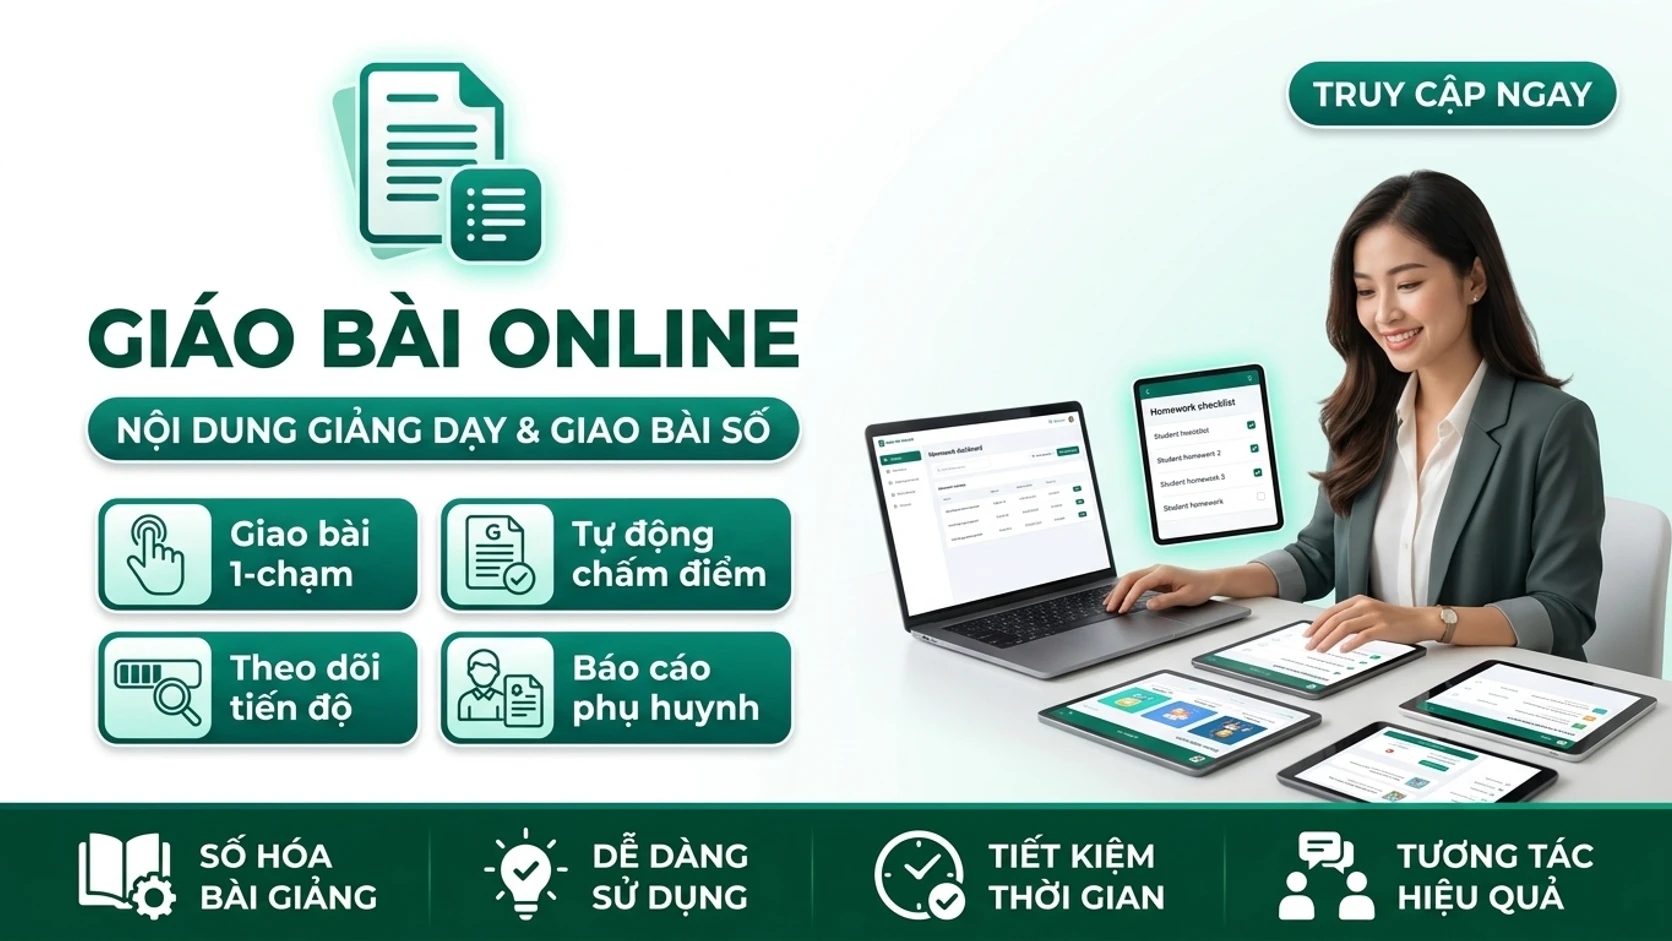
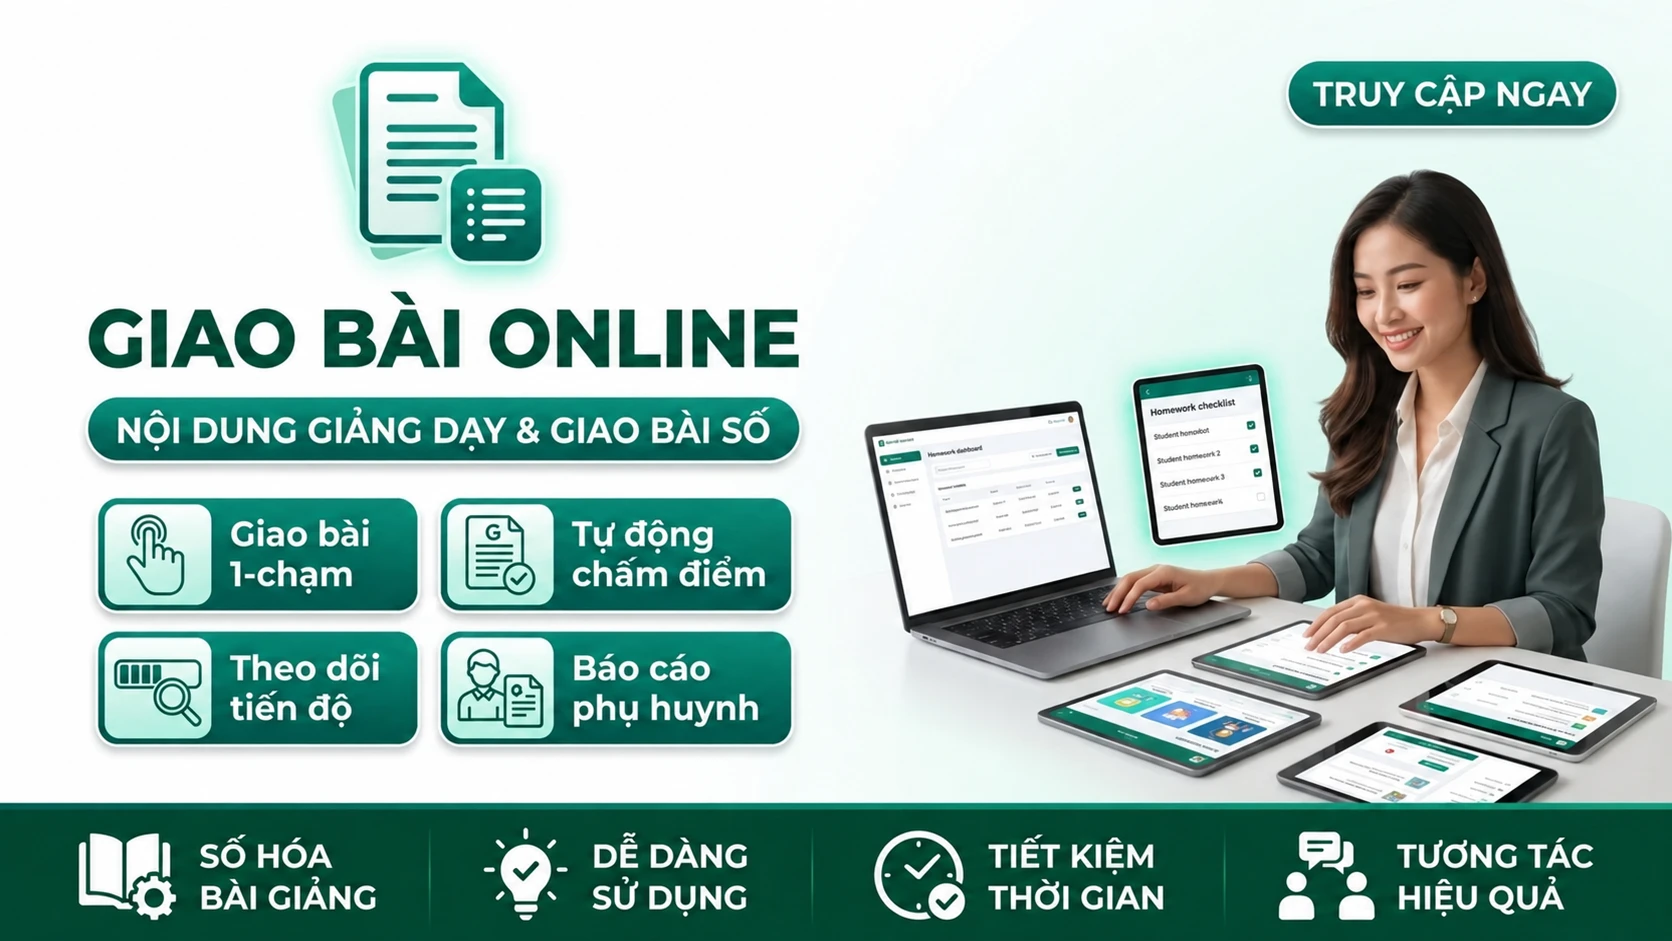
fix: correct GIAO BÀI ONLINE title and cover spelling

diff --git a/code.html b/code.html
@@ -352,11 +352,11 @@
         </div>
       </div>
     </article>
-    <!-- Card 2: GIÁO BÀI ONLINE -->
-    <article class="app-card group flex flex-col bg-surface rounded-xl overflow-hidden shadow-level-1 card-hover-effect border border-surface-variant" data-category="KẾ HOẠCH &amp; GIẢNG DẠY" data-desc="Ứng dụng hỗ trợ công việc chuẩn bị và tổ chức nội dung giảng dạy trong hệ sinh thái giáo dục số." data-group="KẾ HOẠCH" data-title="GIÁO BÀI ONLINE">
+    <!-- Card 2: GIAO BÀI ONLINE -->
+    <article class="app-card group flex flex-col bg-surface rounded-xl overflow-hidden shadow-level-1 card-hover-effect border border-surface-variant" data-category="KẾ HOẠCH &amp; GIẢNG DẠY" data-desc="Ứng dụng hỗ trợ công việc chuẩn bị và tổ chức nội dung giảng dạy trong hệ sinh thái giáo dục số." data-group="KẾ HOẠCH" data-title="GIAO BÀI ONLINE">
       <a class="app-cover relative aspect-video w-full overflow-hidden bg-surface-variant block" href="https://giaobaionline.vercel.app/" rel="noopener noreferrer" target="_blank">
-        <div class="app-cover-fallback app-cover-title" aria-hidden="true"><small>EDUTECH AI · 02</small><strong>GIÁO BÀI ONLINE</strong><small>CÔNG CỤ GIÁO DỤC THÔNG MINH</small></div>
-        <img alt="GIÁO BÀI ONLINE" class="w-full h-full object-cover group-hover:scale-105 transition-transform duration-500" src="assets/covers/giaobai-cinematic.webp?v=2" width="1672" height="941" loading="lazy" decoding="async" onerror="this.hidden = true">
+        <div class="app-cover-fallback app-cover-title" aria-hidden="true"><small>EDUTECH AI · 02</small><strong>GIAO BÀI ONLINE</strong><small>CÔNG CỤ GIÁO DỤC THÔNG MINH</small></div>
+        <img alt="GIAO BÀI ONLINE" class="w-full h-full object-cover group-hover:scale-105 transition-transform duration-500" src="assets/covers/giaobai-cinematic.webp?v=3" width="1672" height="941" loading="lazy" decoding="async" onerror="this.hidden = true">
         <span class="absolute top-3 left-3 bg-surface-container-lowest/90 backdrop-blur-md text-primary font-bold text-[10px] tracking-wider uppercase px-2.5 py-1 rounded-md shadow-sm border border-white/40">ỨNG DỤNG</span>
         <div class="absolute inset-0 bg-primary/50 opacity-0 group-hover:opacity-100 transition-opacity duration-300 flex items-center justify-center backdrop-blur-[2px]">
           <span class="text-on-primary font-label-md text-xs bg-secondary px-3.5 py-2 rounded-lg flex items-center gap-1.5 shadow-lg font-semibold">
@@ -366,7 +366,7 @@
       </a>
       <div class="p-stack-md flex flex-col flex-grow">
         <div class="text-[11px] font-bold tracking-wider text-secondary uppercase mb-1">KẾ HOẠCH &amp; GIẢNG DẠY</div>
-        <h4 class="font-headline-md-mobile text-lg font-bold text-slate-900 mb-2 line-clamp-1">GIÁO BÀI ONLINE</h4>
+        <h4 class="font-headline-md-mobile text-lg font-bold text-slate-900 mb-2 line-clamp-1">GIAO BÀI ONLINE</h4>
         <p class="font-body-md text-slate-600 text-sm line-clamp-2 min-h-[2.5rem] mb-4">Ứng dụng hỗ trợ công việc chuẩn bị và tổ chức nội dung giảng dạy trong hệ sinh thái giáo dục số.</p>
         <div class="mt-auto pt-2 border-t border-surface-variant/60 flex items-center justify-between">
           <a class="inline-flex items-center gap-1.5 text-xs font-semibold text-secondary hover:text-on-tertiary-fixed-variant transition-colors" href="https://giaobaionline.vercel.app/" rel="noopener noreferrer" target="_blank">

diff --git a/index.html b/index.html
@@ -352,11 +352,11 @@
         </div>
       </div>
     </article>
-    <!-- Card 2: GIÁO BÀI ONLINE -->
-    <article class="app-card group flex flex-col bg-surface rounded-xl overflow-hidden shadow-level-1 card-hover-effect border border-surface-variant" data-category="KẾ HOẠCH &amp; GIẢNG DẠY" data-desc="Ứng dụng hỗ trợ công việc chuẩn bị và tổ chức nội dung giảng dạy trong hệ sinh thái giáo dục số." data-group="KẾ HOẠCH" data-title="GIÁO BÀI ONLINE">
+    <!-- Card 2: GIAO BÀI ONLINE -->
+    <article class="app-card group flex flex-col bg-surface rounded-xl overflow-hidden shadow-level-1 card-hover-effect border border-surface-variant" data-category="KẾ HOẠCH &amp; GIẢNG DẠY" data-desc="Ứng dụng hỗ trợ công việc chuẩn bị và tổ chức nội dung giảng dạy trong hệ sinh thái giáo dục số." data-group="KẾ HOẠCH" data-title="GIAO BÀI ONLINE">
       <a class="app-cover relative aspect-video w-full overflow-hidden bg-surface-variant block" href="https://giaobaionline.vercel.app/" rel="noopener noreferrer" target="_blank">
-        <div class="app-cover-fallback app-cover-title" aria-hidden="true"><small>EDUTECH AI · 02</small><strong>GIÁO BÀI ONLINE</strong><small>CÔNG CỤ GIÁO DỤC THÔNG MINH</small></div>
-        <img alt="GIÁO BÀI ONLINE" class="w-full h-full object-cover group-hover:scale-105 transition-transform duration-500" src="assets/covers/giaobai-cinematic.webp?v=2" width="1672" height="941" loading="lazy" decoding="async" onerror="this.hidden = true">
+        <div class="app-cover-fallback app-cover-title" aria-hidden="true"><small>EDUTECH AI · 02</small><strong>GIAO BÀI ONLINE</strong><small>CÔNG CỤ GIÁO DỤC THÔNG MINH</small></div>
+        <img alt="GIAO BÀI ONLINE" class="w-full h-full object-cover group-hover:scale-105 transition-transform duration-500" src="assets/covers/giaobai-cinematic.webp?v=3" width="1672" height="941" loading="lazy" decoding="async" onerror="this.hidden = true">
         <span class="absolute top-3 left-3 bg-surface-container-lowest/90 backdrop-blur-md text-primary font-bold text-[10px] tracking-wider uppercase px-2.5 py-1 rounded-md shadow-sm border border-white/40">ỨNG DỤNG</span>
         <div class="absolute inset-0 bg-primary/50 opacity-0 group-hover:opacity-100 transition-opacity duration-300 flex items-center justify-center backdrop-blur-[2px]">
           <span class="text-on-primary font-label-md text-xs bg-secondary px-3.5 py-2 rounded-lg flex items-center gap-1.5 shadow-lg font-semibold">
@@ -366,7 +366,7 @@
       </a>
       <div class="p-stack-md flex flex-col flex-grow">
         <div class="text-[11px] font-bold tracking-wider text-secondary uppercase mb-1">KẾ HOẠCH &amp; GIẢNG DẠY</div>
-        <h4 class="font-headline-md-mobile text-lg font-bold text-slate-900 mb-2 line-clamp-1">GIÁO BÀI ONLINE</h4>
+        <h4 class="font-headline-md-mobile text-lg font-bold text-slate-900 mb-2 line-clamp-1">GIAO BÀI ONLINE</h4>
         <p class="font-body-md text-slate-600 text-sm line-clamp-2 min-h-[2.5rem] mb-4">Ứng dụng hỗ trợ công việc chuẩn bị và tổ chức nội dung giảng dạy trong hệ sinh thái giáo dục số.</p>
         <div class="mt-auto pt-2 border-t border-surface-variant/60 flex items-center justify-between">
           <a class="inline-flex items-center gap-1.5 text-xs font-semibold text-secondary hover:text-on-tertiary-fixed-variant transition-colors" href="https://giaobaionline.vercel.app/" rel="noopener noreferrer" target="_blank">

diff --git a/public/code.html b/public/code.html
@@ -352,11 +352,11 @@
         </div>
       </div>
     </article>
-    <!-- Card 2: GIÁO BÀI ONLINE -->
-    <article class="app-card group flex flex-col bg-surface rounded-xl overflow-hidden shadow-level-1 card-hover-effect border border-surface-variant" data-category="KẾ HOẠCH &amp; GIẢNG DẠY" data-desc="Ứng dụng hỗ trợ công việc chuẩn bị và tổ chức nội dung giảng dạy trong hệ sinh thái giáo dục số." data-group="KẾ HOẠCH" data-title="GIÁO BÀI ONLINE">
+    <!-- Card 2: GIAO BÀI ONLINE -->
+    <article class="app-card group flex flex-col bg-surface rounded-xl overflow-hidden shadow-level-1 card-hover-effect border border-surface-variant" data-category="KẾ HOẠCH &amp; GIẢNG DẠY" data-desc="Ứng dụng hỗ trợ công việc chuẩn bị và tổ chức nội dung giảng dạy trong hệ sinh thái giáo dục số." data-group="KẾ HOẠCH" data-title="GIAO BÀI ONLINE">
       <a class="app-cover relative aspect-video w-full overflow-hidden bg-surface-variant block" href="https://giaobaionline.vercel.app/" rel="noopener noreferrer" target="_blank">
-        <div class="app-cover-fallback app-cover-title" aria-hidden="true"><small>EDUTECH AI · 02</small><strong>GIÁO BÀI ONLINE</strong><small>CÔNG CỤ GIÁO DỤC THÔNG MINH</small></div>
-        <img alt="GIÁO BÀI ONLINE" class="w-full h-full object-cover group-hover:scale-105 transition-transform duration-500" src="assets/covers/giaobai-cinematic.webp?v=2" width="1672" height="941" loading="lazy" decoding="async" onerror="this.hidden = true">
+        <div class="app-cover-fallback app-cover-title" aria-hidden="true"><small>EDUTECH AI · 02</small><strong>GIAO BÀI ONLINE</strong><small>CÔNG CỤ GIÁO DỤC THÔNG MINH</small></div>
+        <img alt="GIAO BÀI ONLINE" class="w-full h-full object-cover group-hover:scale-105 transition-transform duration-500" src="assets/covers/giaobai-cinematic.webp?v=3" width="1672" height="941" loading="lazy" decoding="async" onerror="this.hidden = true">
         <span class="absolute top-3 left-3 bg-surface-container-lowest/90 backdrop-blur-md text-primary font-bold text-[10px] tracking-wider uppercase px-2.5 py-1 rounded-md shadow-sm border border-white/40">ỨNG DỤNG</span>
         <div class="absolute inset-0 bg-primary/50 opacity-0 group-hover:opacity-100 transition-opacity duration-300 flex items-center justify-center backdrop-blur-[2px]">
           <span class="text-on-primary font-label-md text-xs bg-secondary px-3.5 py-2 rounded-lg flex items-center gap-1.5 shadow-lg font-semibold">
@@ -366,7 +366,7 @@
       </a>
       <div class="p-stack-md flex flex-col flex-grow">
         <div class="text-[11px] font-bold tracking-wider text-secondary uppercase mb-1">KẾ HOẠCH &amp; GIẢNG DẠY</div>
-        <h4 class="font-headline-md-mobile text-lg font-bold text-slate-900 mb-2 line-clamp-1">GIÁO BÀI ONLINE</h4>
+        <h4 class="font-headline-md-mobile text-lg font-bold text-slate-900 mb-2 line-clamp-1">GIAO BÀI ONLINE</h4>
         <p class="font-body-md text-slate-600 text-sm line-clamp-2 min-h-[2.5rem] mb-4">Ứng dụng hỗ trợ công việc chuẩn bị và tổ chức nội dung giảng dạy trong hệ sinh thái giáo dục số.</p>
         <div class="mt-auto pt-2 border-t border-surface-variant/60 flex items-center justify-between">
           <a class="inline-flex items-center gap-1.5 text-xs font-semibold text-secondary hover:text-on-tertiary-fixed-variant transition-colors" href="https://giaobaionline.vercel.app/" rel="noopener noreferrer" target="_blank">

diff --git a/public/index.html b/public/index.html
@@ -352,11 +352,11 @@
         </div>
       </div>
     </article>
-    <!-- Card 2: GIÁO BÀI ONLINE -->
-    <article class="app-card group flex flex-col bg-surface rounded-xl overflow-hidden shadow-level-1 card-hover-effect border border-surface-variant" data-category="KẾ HOẠCH &amp; GIẢNG DẠY" data-desc="Ứng dụng hỗ trợ công việc chuẩn bị và tổ chức nội dung giảng dạy trong hệ sinh thái giáo dục số." data-group="KẾ HOẠCH" data-title="GIÁO BÀI ONLINE">
+    <!-- Card 2: GIAO BÀI ONLINE -->
+    <article class="app-card group flex flex-col bg-surface rounded-xl overflow-hidden shadow-level-1 card-hover-effect border border-surface-variant" data-category="KẾ HOẠCH &amp; GIẢNG DẠY" data-desc="Ứng dụng hỗ trợ công việc chuẩn bị và tổ chức nội dung giảng dạy trong hệ sinh thái giáo dục số." data-group="KẾ HOẠCH" data-title="GIAO BÀI ONLINE">
       <a class="app-cover relative aspect-video w-full overflow-hidden bg-surface-variant block" href="https://giaobaionline.vercel.app/" rel="noopener noreferrer" target="_blank">
-        <div class="app-cover-fallback app-cover-title" aria-hidden="true"><small>EDUTECH AI · 02</small><strong>GIÁO BÀI ONLINE</strong><small>CÔNG CỤ GIÁO DỤC THÔNG MINH</small></div>
-        <img alt="GIÁO BÀI ONLINE" class="w-full h-full object-cover group-hover:scale-105 transition-transform duration-500" src="assets/covers/giaobai-cinematic.webp?v=2" width="1672" height="941" loading="lazy" decoding="async" onerror="this.hidden = true">
+        <div class="app-cover-fallback app-cover-title" aria-hidden="true"><small>EDUTECH AI · 02</small><strong>GIAO BÀI ONLINE</strong><small>CÔNG CỤ GIÁO DỤC THÔNG MINH</small></div>
+        <img alt="GIAO BÀI ONLINE" class="w-full h-full object-cover group-hover:scale-105 transition-transform duration-500" src="assets/covers/giaobai-cinematic.webp?v=3" width="1672" height="941" loading="lazy" decoding="async" onerror="this.hidden = true">
         <span class="absolute top-3 left-3 bg-surface-container-lowest/90 backdrop-blur-md text-primary font-bold text-[10px] tracking-wider uppercase px-2.5 py-1 rounded-md shadow-sm border border-white/40">ỨNG DỤNG</span>
         <div class="absolute inset-0 bg-primary/50 opacity-0 group-hover:opacity-100 transition-opacity duration-300 flex items-center justify-center backdrop-blur-[2px]">
           <span class="text-on-primary font-label-md text-xs bg-secondary px-3.5 py-2 rounded-lg flex items-center gap-1.5 shadow-lg font-semibold">
@@ -366,7 +366,7 @@
       </a>
       <div class="p-stack-md flex flex-col flex-grow">
         <div class="text-[11px] font-bold tracking-wider text-secondary uppercase mb-1">KẾ HOẠCH &amp; GIẢNG DẠY</div>
-        <h4 class="font-headline-md-mobile text-lg font-bold text-slate-900 mb-2 line-clamp-1">GIÁO BÀI ONLINE</h4>
+        <h4 class="font-headline-md-mobile text-lg font-bold text-slate-900 mb-2 line-clamp-1">GIAO BÀI ONLINE</h4>
         <p class="font-body-md text-slate-600 text-sm line-clamp-2 min-h-[2.5rem] mb-4">Ứng dụng hỗ trợ công việc chuẩn bị và tổ chức nội dung giảng dạy trong hệ sinh thái giáo dục số.</p>
         <div class="mt-auto pt-2 border-t border-surface-variant/60 flex items-center justify-between">
           <a class="inline-flex items-center gap-1.5 text-xs font-semibold text-secondary hover:text-on-tertiary-fixed-variant transition-colors" href="https://giaobaionline.vercel.app/" rel="noopener noreferrer" target="_blank">
